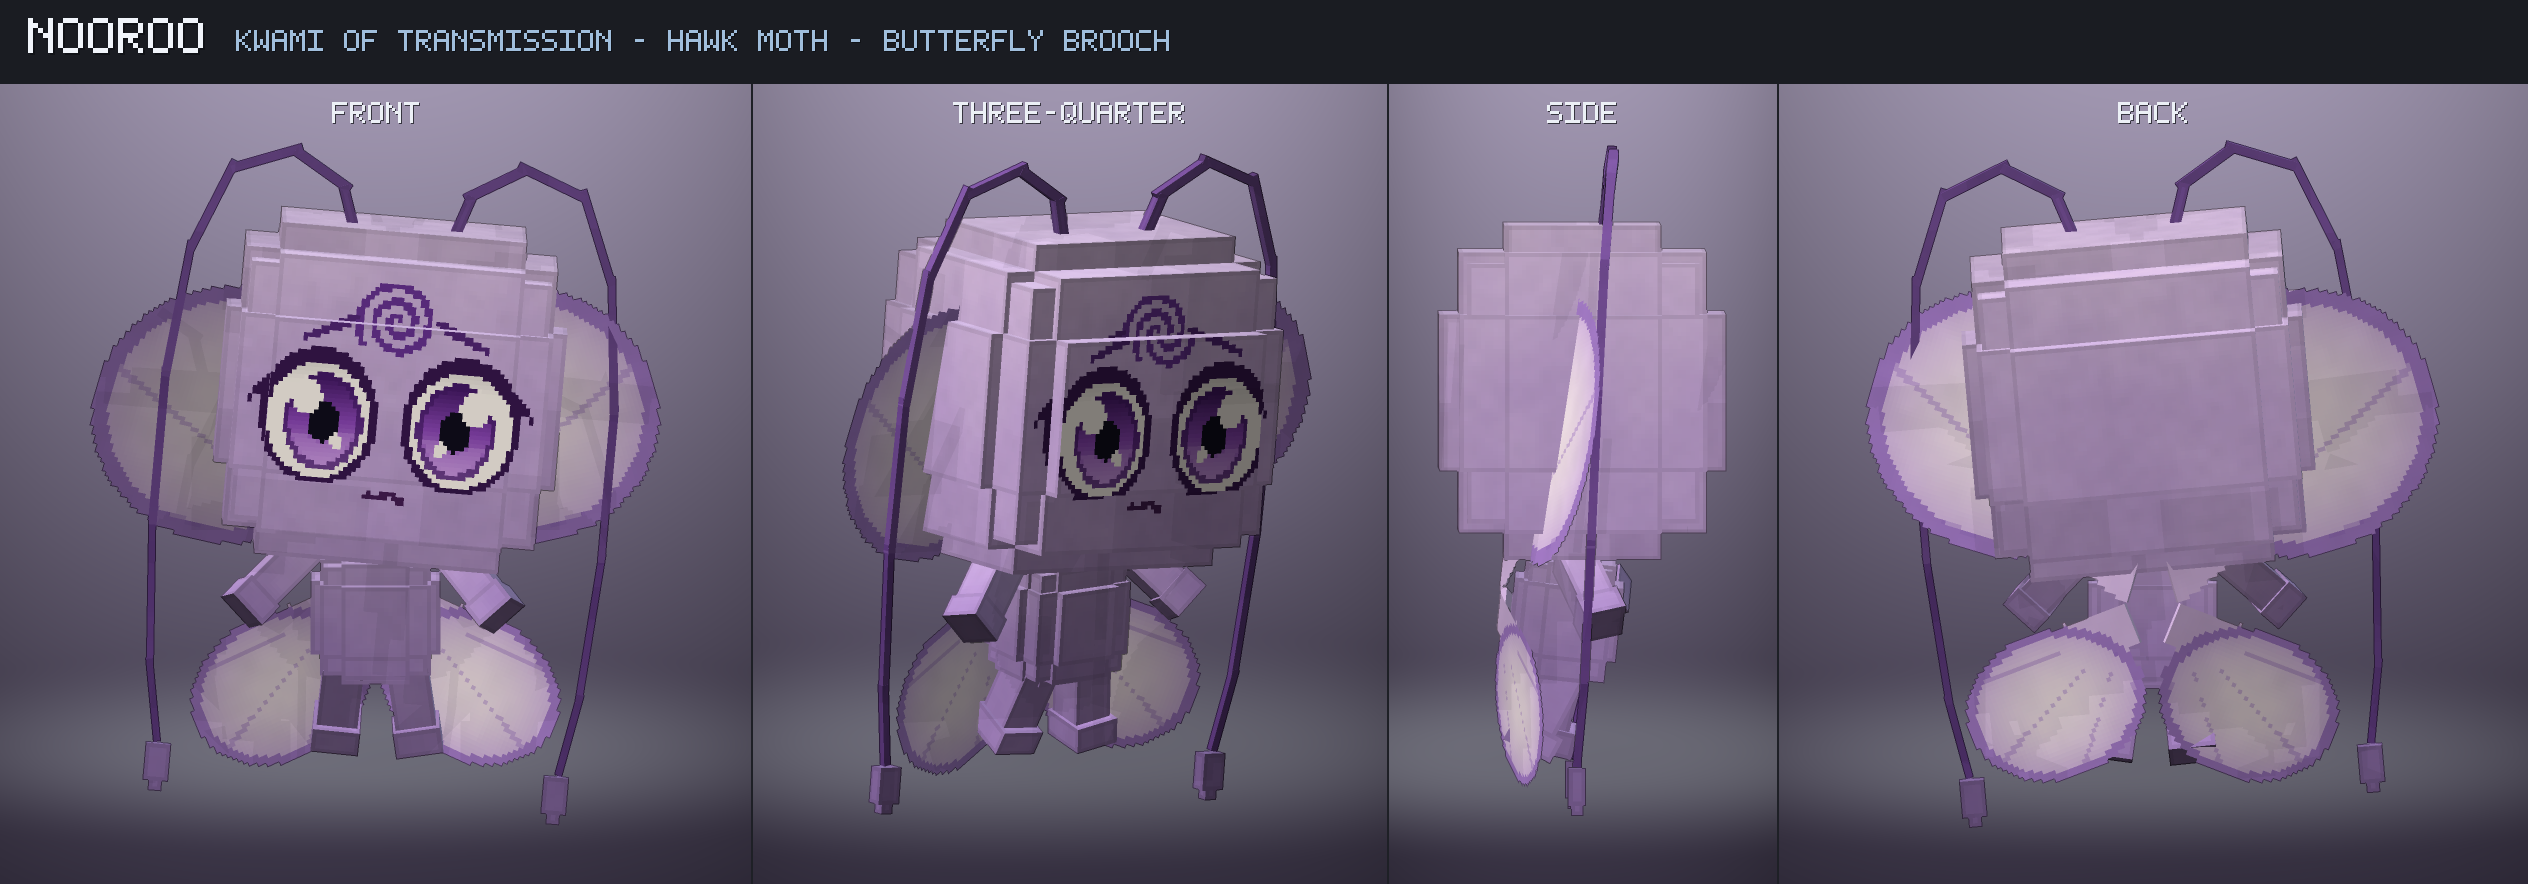
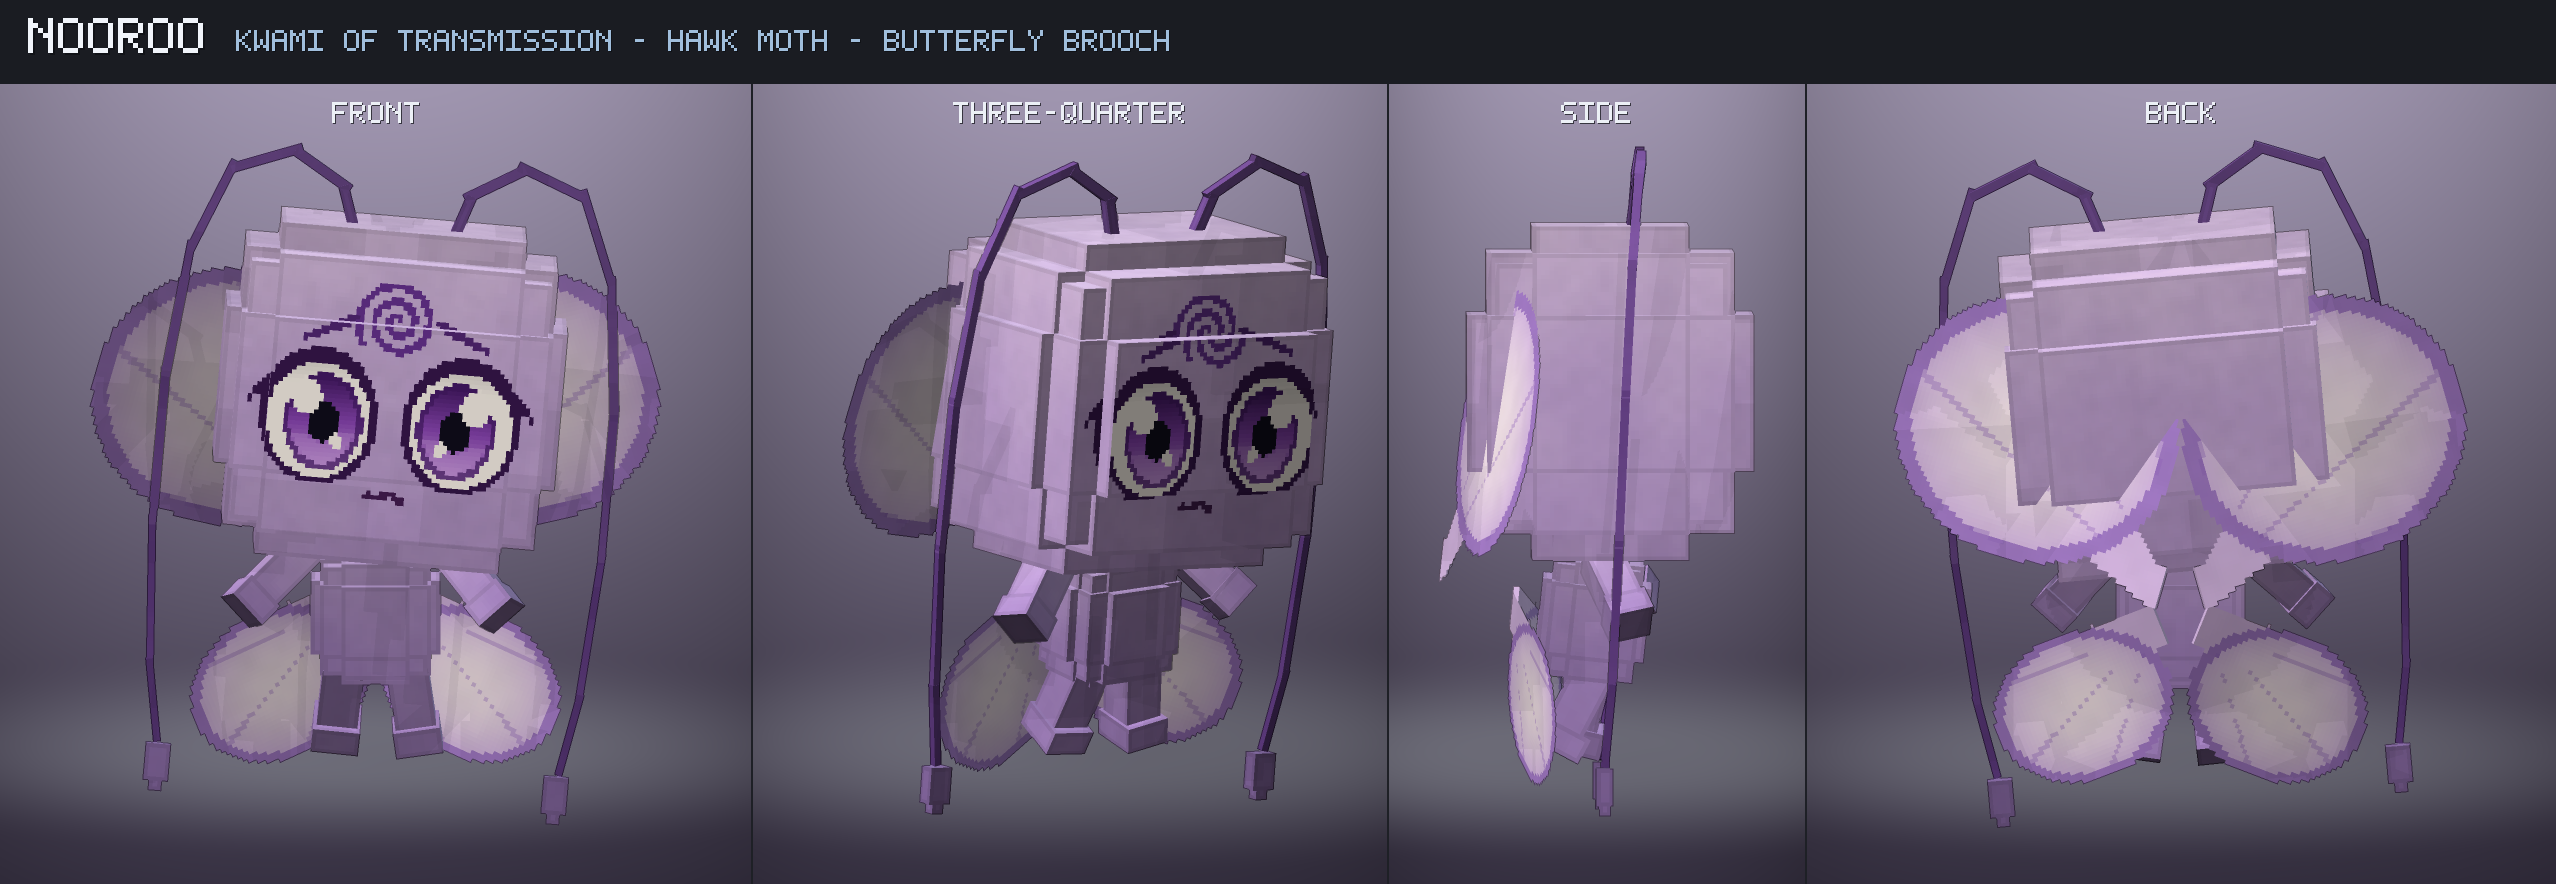
v0.17.1: Nooroo's wings out of his body -- the upper pair sits behind the head, the lower pair clear of the body

diff --git a/scratchpad/kwamis_v0171/gen_nooroo.js b/scratchpad/kwamis_v0171/gen_nooroo.js
@@ -23,14 +23,16 @@ for (const s of [-1, 1]) {
 	M.cbox(b, [tip[0], tip[1] - 0.6, 0], [0.4, 0.5, 0.36], 'tip', { seed: 411 });
 }
 // the wings: thin planes behind the shoulders, cut to rounded wing shapes by the texture's alpha
+// (user: "nooroos wings are in his body"): the upper pair sits behind the HEAD (its back is at z 4.0), the lower pair
+// clear of the body
 const WINGS = [];
 for (const s of [-1, 1]) {
 	const n = s < 0 ? 'r' : 'l';
-	const up = M.bone(`wing_${n}`, 'body', [s * 0.8, 5.4, 1.8], [0, s * 14, -s * 16]);
-	M.box(up, s * 0.5, 4.4, 1.85, s * 9.8, 12.8, 2.05, 'wing', { seed: 420 });
+	const up = M.bone(`wing_${n}`, 'body', [s * 0.8, 5.4, 4.4], [0, s * 14, -s * 16]);
+	M.box(up, s * 0.5, 4.4, 4.45, s * 9.8, 12.8, 4.65, 'wing', { seed: 420 });
 	WINGS.push({ s, cx: s * 5.4, cy: 8.8, rx: 4.3, ry: 3.9, root: [s * 0.8, 5.4], lo: false });
-	const lo = M.bone(`wing_low_${n}`, 'body', [s * 0.8, 4.0, 1.8], [0, s * 16, s * 22]);
-	M.box(lo, s * 0.5, 0.2, 1.8, s * 6.4, 4.9, 2.0, 'wing_lo', { seed: 430 });
+	const lo = M.bone(`wing_low_${n}`, 'body', [s * 0.8, 4.0, 2.2], [0, s * 16, s * 22]);
+	M.box(lo, s * 0.5, 0.2, 2.25, s * 6.4, 4.9, 2.45, 'wing_lo', { seed: 430 });
 	WINGS.push({ s, cx: s * 3.6, cy: 2.6, rx: 2.8, ry: 2.2, root: [s * 0.8, 4.0], lo: true });
 }
 
